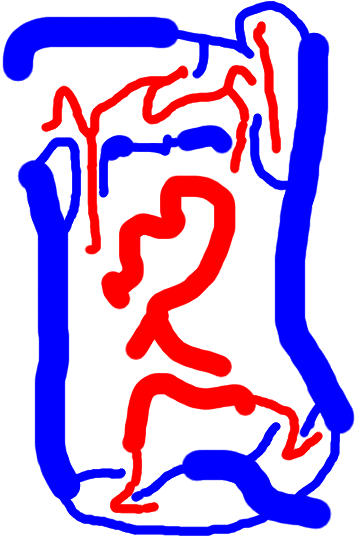
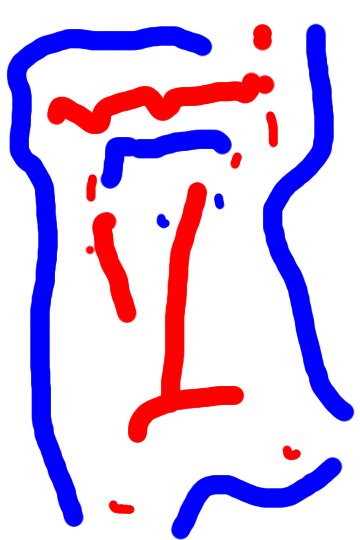
fix weight of edges

diff --git a/Segmentation/Segmentation/src/Image.cpp b/Segmentation/Segmentation/src/Image.cpp
@@ -8,7 +8,7 @@
 
 
 #include <GridGraph_2D_8C.h>
-const float C{ 10.0f };
+const float K{ 4000.0f };
 const Color3 RED{ 1.f, 0.f, 0.f };
 const Color3 BLUE{ 0.f, 0.f, 1.f };
 
@@ -466,80 +466,45 @@ void Image::ImageStitching(Image& img2)
 
 void Image::Segmentation(const Image& img)
 {
-    typedef GridGraph_2D_8C<float, float, float> Grid;
+    typedef GridGraph_2D_8C<int, int, int> Grid;
 
     Grid* grid = new Grid(width, height);
 
-    //float beta = 0.0f;
-    //for (int i = 0; i < height; i++)
-    //{
-    //    for (int j = 0; j < width; j++)
-    //    {
-    //        if (j < width - 1)
-    //        {
-    //            float distSq = SquaredLength(Lookup(j, i) - Lookup(j + 1, i));
-    //            beta += distSq;
-    //        }
-
-    //        if (i < height - 1)
-    //        {
-    //            float distSq = SquaredLength(Lookup(j, i) - Lookup(j, i + 1));
-    //            beta += distSq;
-    //        }
-    //    }
-    //}
-
-    //beta /= width * height;
-
-    //auto weight = [](float rgbDist, float euclDist, float beta)
-    //{
-    //    const float lambda1 = 5.f;
-    //    const float lambda2 = 2000000.f;
-    //    return lambda1 + (lambda2 / euclDist) * std::exp(-rgbDist / ( beta));
-    //};
-
-    auto weight = [](const Vector3& rgb1, const Vector3& rgb2)
+    auto weight = [](const Vector3& rgb1, const Vector3& rgb2, float dist)
     {
-        const float gamma = 0.8f;
-        return 1.0f + std::powf(std::min(rgb1.Average(), rgb2.Average()), gamma);
+        const float gamma = 2.0f;
+        return 1.0f + K * std::powf(std::min(rgb1.Average(), rgb2.Average()) / dist, gamma);
     };
 
     for (int i = 0; i < height; i++)
     {
         for (int j = 0; j < width; j++)
         {
-            grid->set_terminal_cap(grid->node_id(j, i), img.LookupT(j, i).z == 1 ? C : 0, img.LookupT(j, i).x == 1 ? C : 0);
+            grid->set_terminal_cap(grid->node_id(j, i), img.LookupT(j, i).z == 1 ? K : 0, img.LookupT(j, i).x == 1 ? K : 0);
 
             if (j < width - 1)
             {
-                //const int cap = weight(SquaredLength(Lookup(j, i) - Lookup(j + 1, i)), 1, beta);
-                const float cap = weight(Lookup(j, i), Lookup(j + 1, i));
+                const float cap = weight(Lookup(j, i), Lookup(j + 1, i), 1);
                 grid->set_neighbor_cap(grid->node_id(j, i),      1, 0, cap);
                 grid->set_neighbor_cap(grid->node_id(j + 1, i), -1, 0, cap);
             }
 
             if (i < height - 1)
             {
-                //const int cap = weight(SquaredLength(Lookup(j, i) - Lookup(j, i + 1)), 1, beta);
-                const float cap = weight(Lookup(j, i), Lookup(j, i + 1));
-
+                const int cap = weight(Lookup(j, i), Lookup(j, i + 1), 1);
                 grid->set_neighbor_cap(grid->node_id(j, i),     0,  1, cap);
                 grid->set_neighbor_cap(grid->node_id(j, i + 1), 0, -1, cap);
             }
 
             if (j < width - 1 && i < height - 1)
             {
-                //const int cap = weight(SquaredLength(Lookup(j, i) - Lookup(j + 1, i + 1)), SQRT2, beta);
-                const float cap = weight(Lookup(j, i), Lookup(j + 1, i + 1));
-
+                const int cap = weight(Lookup(j, i), Lookup(j + 1, i + 1), SQRT2);
                 grid->set_neighbor_cap(grid->node_id(j, i), 1, 1, cap);
                 grid->set_neighbor_cap(grid->node_id(j + 1, i + 1), -1, -1, cap);
             }
             if (j > 0 && i < height - 1)
             {
-                //const int cap = weight(SquaredLength(Lookup(j, i) - Lookup(j - 1, i + 1)), SQRT2, beta);
-                const float cap = weight(Lookup(j, i), Lookup(j - 1, i + 1));
-
+                const int cap = weight(Lookup(j, i), Lookup(j - 1, i + 1), SQRT2);
                 grid->set_neighbor_cap(grid->node_id(j, i), -1, 1, cap);
                 grid->set_neighbor_cap(grid->node_id(j - 1, i + 1), 1, -1, cap);
             }
@@ -553,7 +518,6 @@ void Image::Segmentation(const Image& img)
         for (int j = 0; j < width; j++)
         {
             dataT[i * width + j] = data[i * width + j] * (grid->get_segment(grid->node_id(j, i)) ? RED : BLUE);
-            //dataT[i * width + j] = data[i * width + j] * (grid->get_segment(grid->node_id(j, i)) ? Vector3(.25, 1.f, .25) : 1);
         }
     }
 
